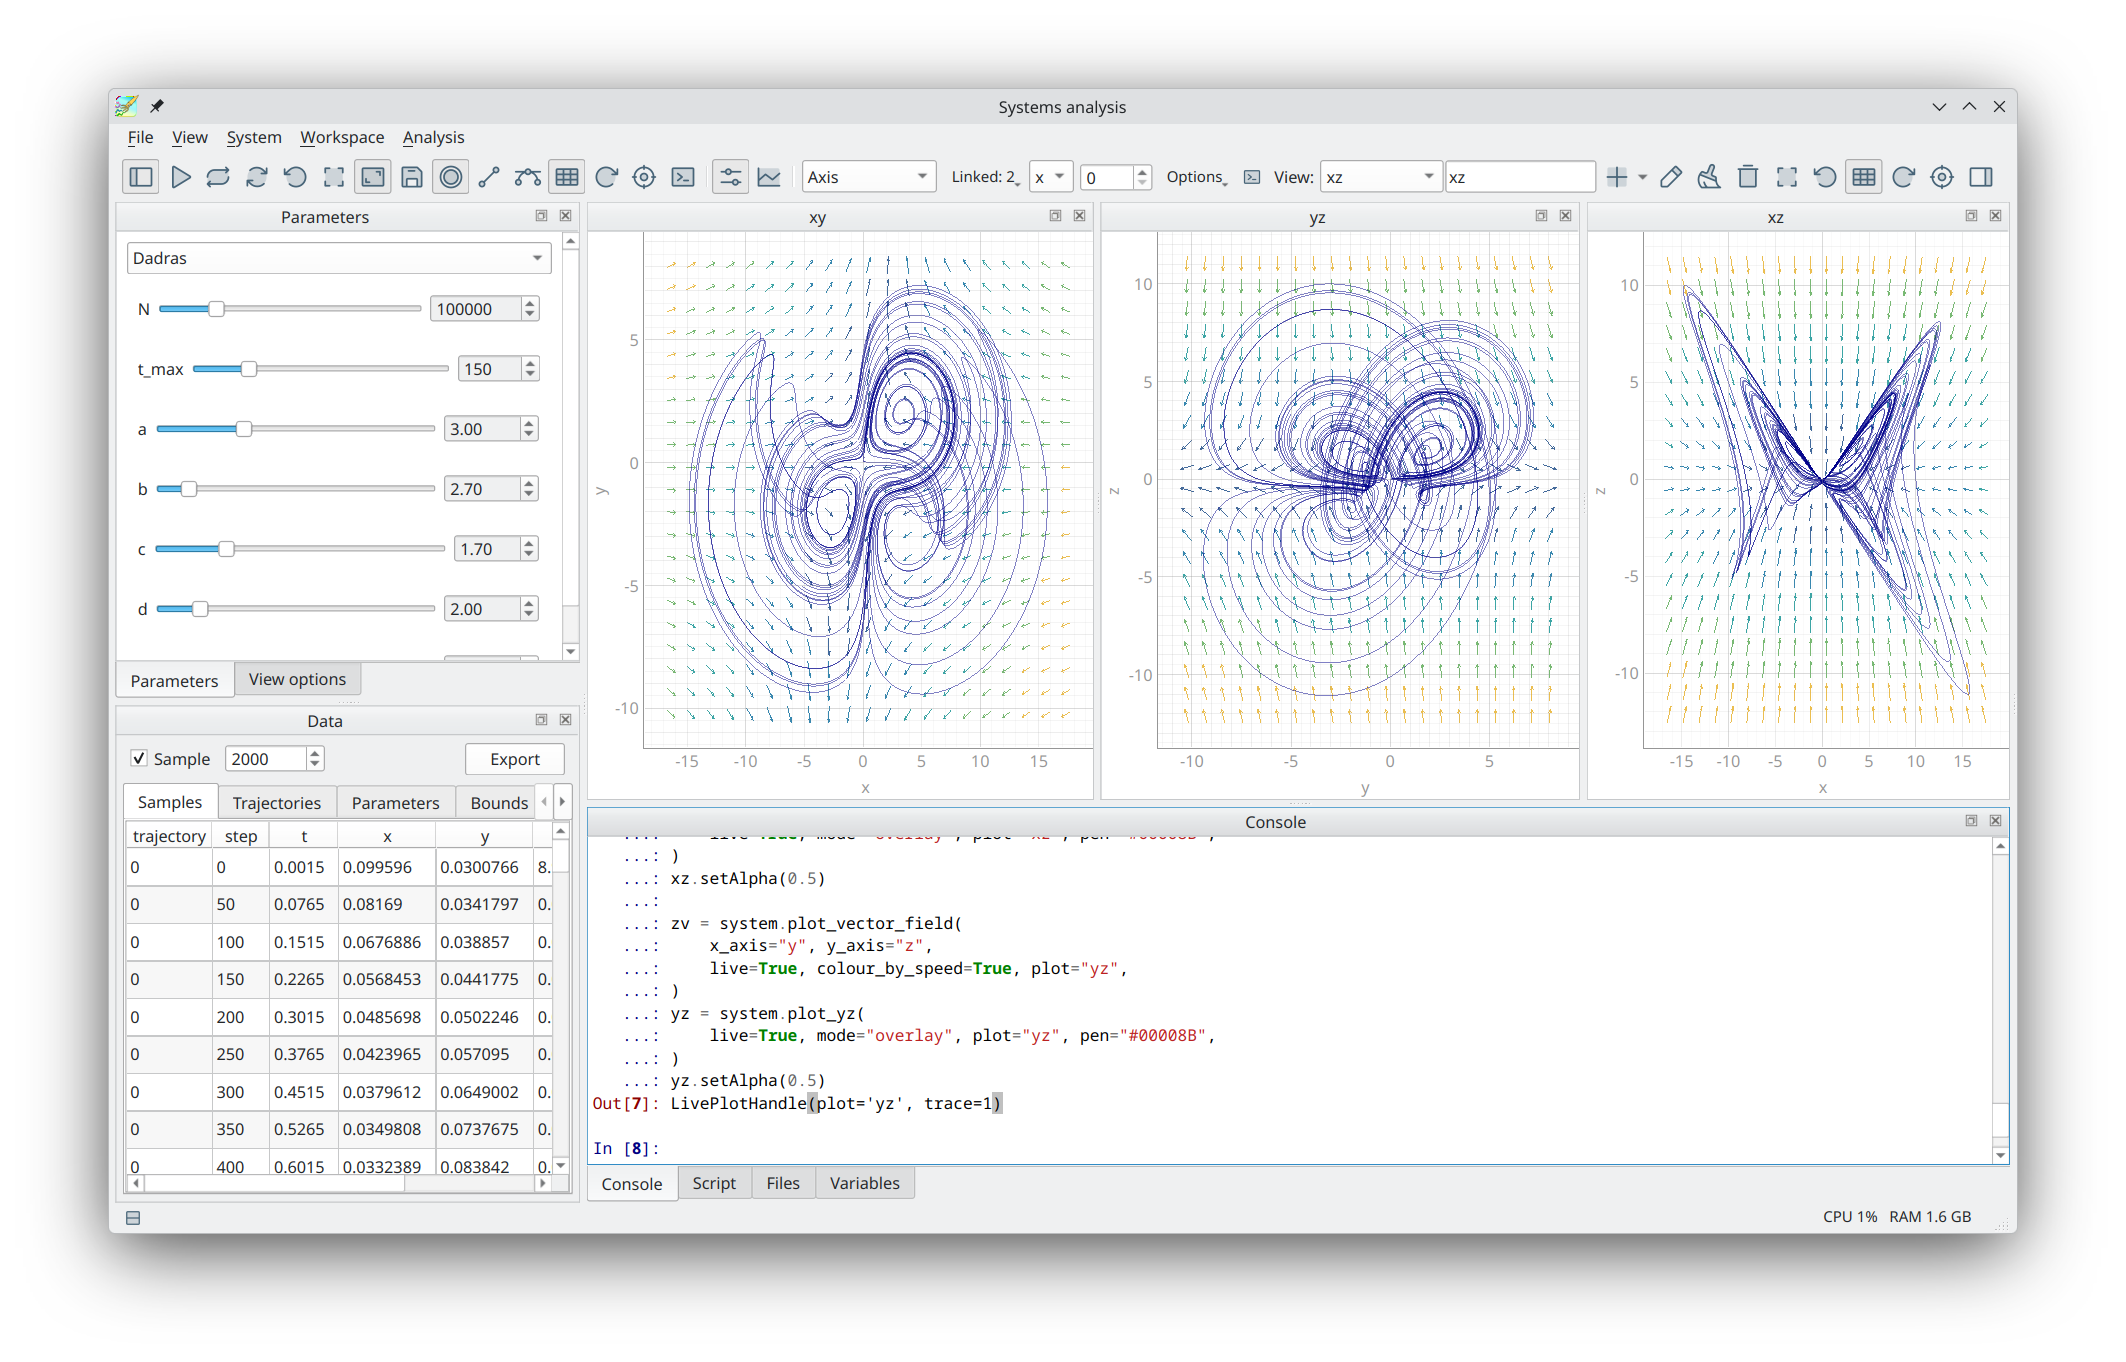
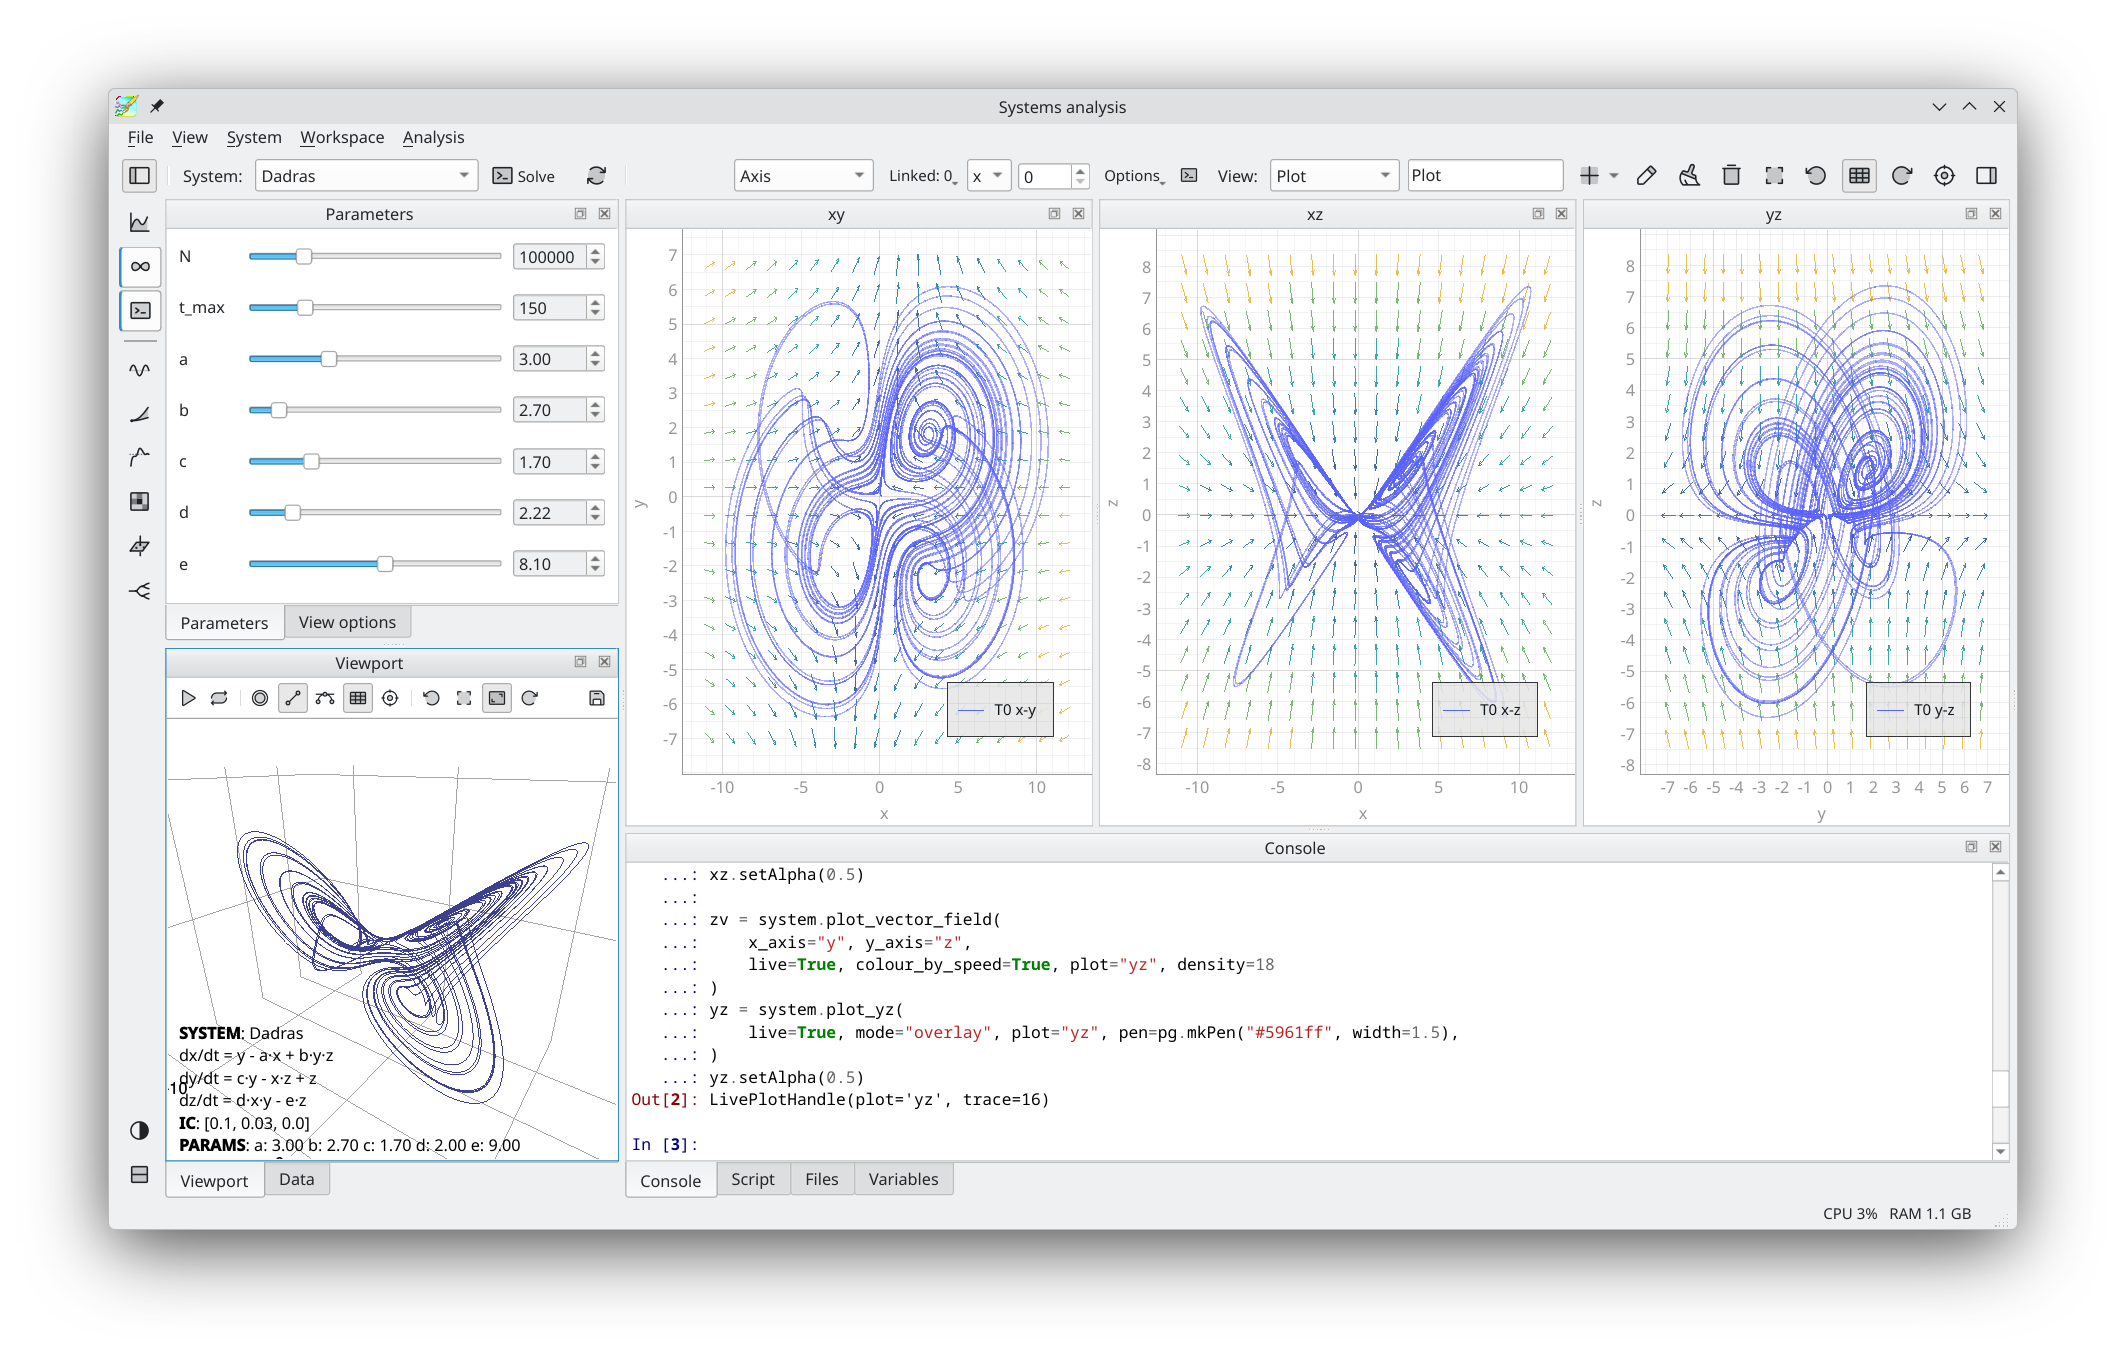
update README

Changed region(s): [[0.0621, 0.0928, 0.9624, 0.8969], [0.8692, 0.866, 0.9313, 0.8969]]

diff --git a/README.md b/README.md
@@ -59,7 +59,7 @@ The selected system can be controlled from the parameter control panel, with the
 and animation options located in the _View options_ panel. Data for the current system
 can be exported from the _Data view_ panel. The _Trajectory_ panel allows for comparison
 of the current system at varying initial conditions. The selected system can then be
-explored through the available analysis modes:
+explored through the available analysis modes which can be toggled from the left toolbar.
 
 <table>
   <tr>
@@ -75,11 +75,11 @@ explored through the available analysis modes:
   <tr>
     <td width="50%" align="center">
       <img src="media/image_10.png" />
-      <small>Projection heatmap</small>
+      <small>Projection heatmap and Poincaré section</small>
     </td>
     <td width="50%" align="center">
       <img src="media/image_12.png" />
-      <small>Poincaré section map</small>
+      <small>Multi-trajectory comparison</small>
     </td>
   </tr>
 </table>
@@ -87,10 +87,10 @@ explored through the available analysis modes:
 ### System workspace
 
 The system workspace allows you to explore the selected system through the text editor
-and console. It can be toggled from the toolbar or from the _Analysis_ $\rightarrow$
-_System_ menu option. All commands here are prefixed with `system.`, so tabbing in the
-console will show all the available commands. `system.help()` will also show the
-available commands, and can optionally be viewed in the table viewer by passing
+and console. It can be toggled from the left toolbar or from the _Analysis_
+$\rightarrow$ _System_ menu option. All commands here are prefixed with `system.`, so
+tabbing in the console will show all the available commands. `system.help()` will also
+show the available commands, and can optionally be viewed in the table viewer by passing
 `table=True`.
 
 <table>
@@ -110,17 +110,18 @@ available commands, and can optionally be viewed in the table viewer by passing
 
 ### Explore workspace
 
-The explore workspace is a general scripting area. It can be accessed from the
-_Workspace_ $\rightarrow$ _Mode_ $\rightarrow$ _Explore_ menu option. Here, you can
-create 2D and 3D interactive plots and animations with standard Python and the app's
-plotting API. The app comes bundled with an 'examples' directory in file browser,
-including the above interactive plot of the Peter de Jong attractor. You can also run
-`explore.help()`, also optionally with `table=True`, to see all the available commands.
+The explore workspace is a general scripting area. It can be accessed from either the
+action in the left toolbar or the _Workspace_ $\rightarrow$ _Mode_ $\rightarrow$
+_Explore_ menu option. Here, you can create 2D and 3D interactive plots and animations
+with standard Python and the app's plotting API. The app comes bundled with an
+'examples' directory in file the browser, including the interactive plot shown below of
+the Peter de Jong attractor. You can also run `explore.help()`, also optionally with
+`table=True`, to see all the available commands.
 
 <img src="media/image_4.png" />
 
-You can return to the viewport area from _Workspace_ $\rightarrow$ _Mode_ $\rightarrow$
-_System_.
+You can return to the viewport area from the toolbar or _Workspace_ $\rightarrow$ _Mode_
+$\rightarrow$ _System_.
 
 If you run into any issues check the output panel (toggled from the bottom left or the
 _View_ menu option) and file a bug report.
